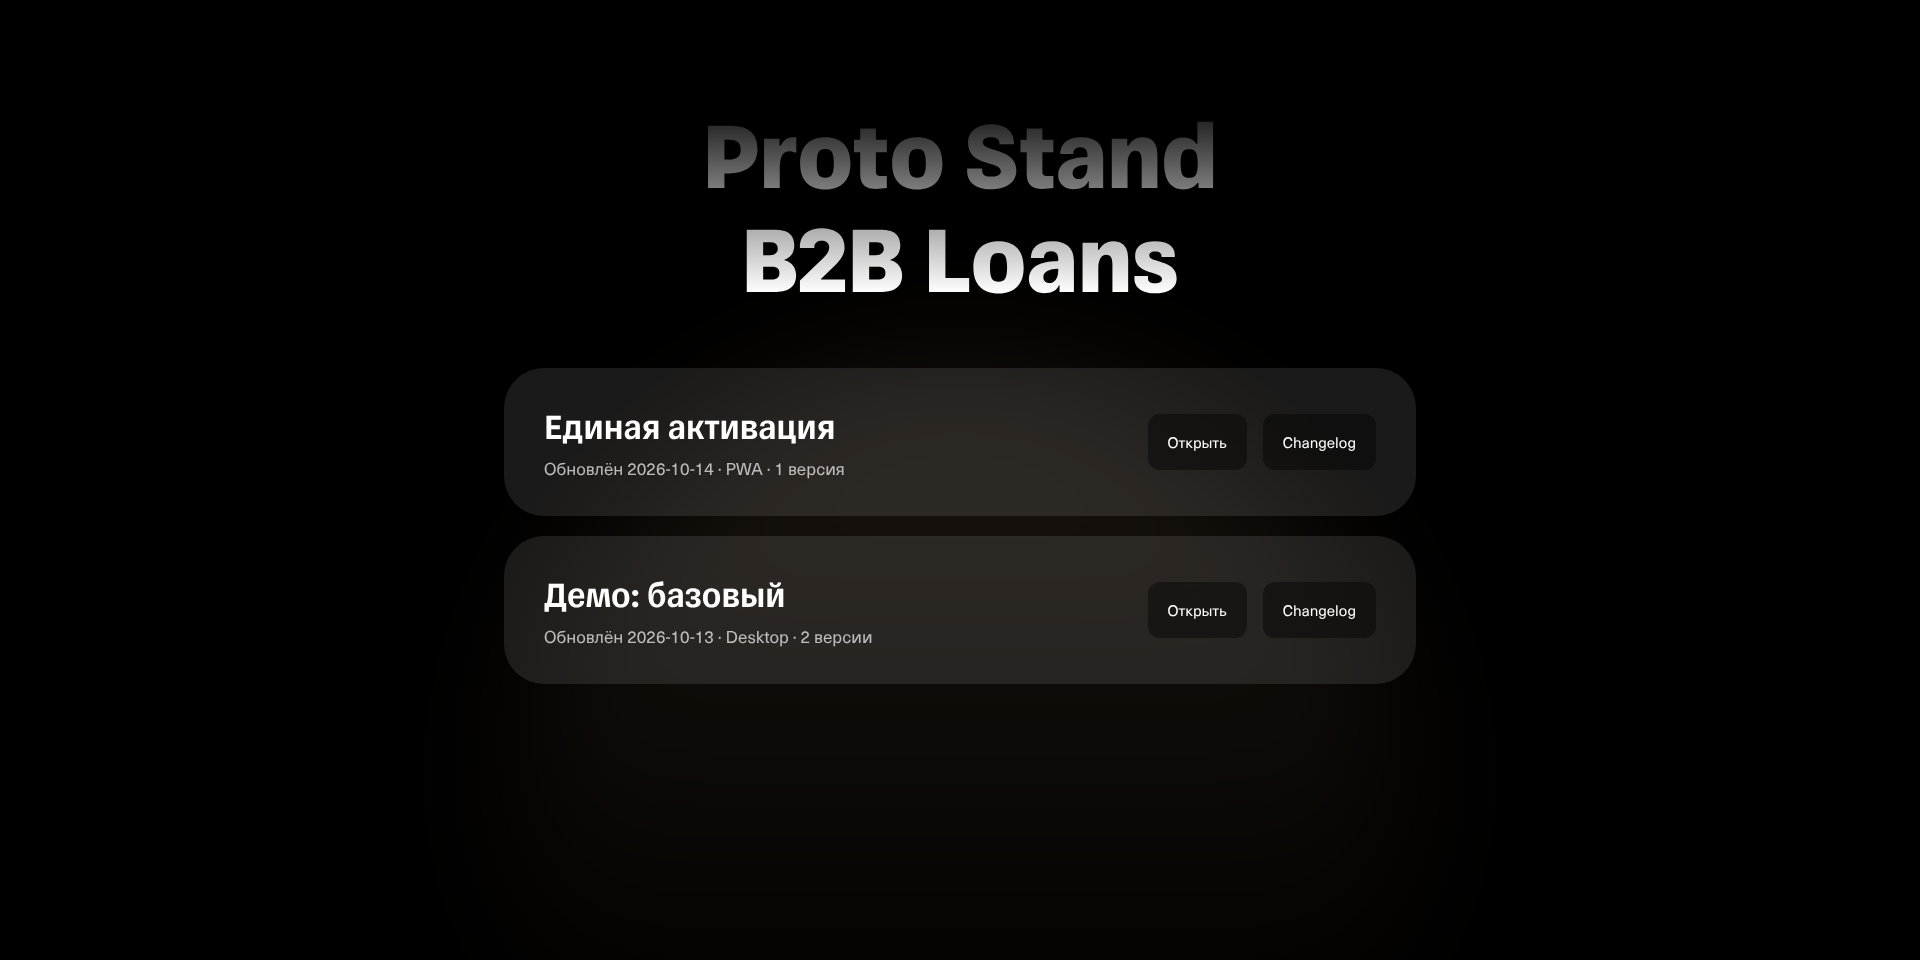
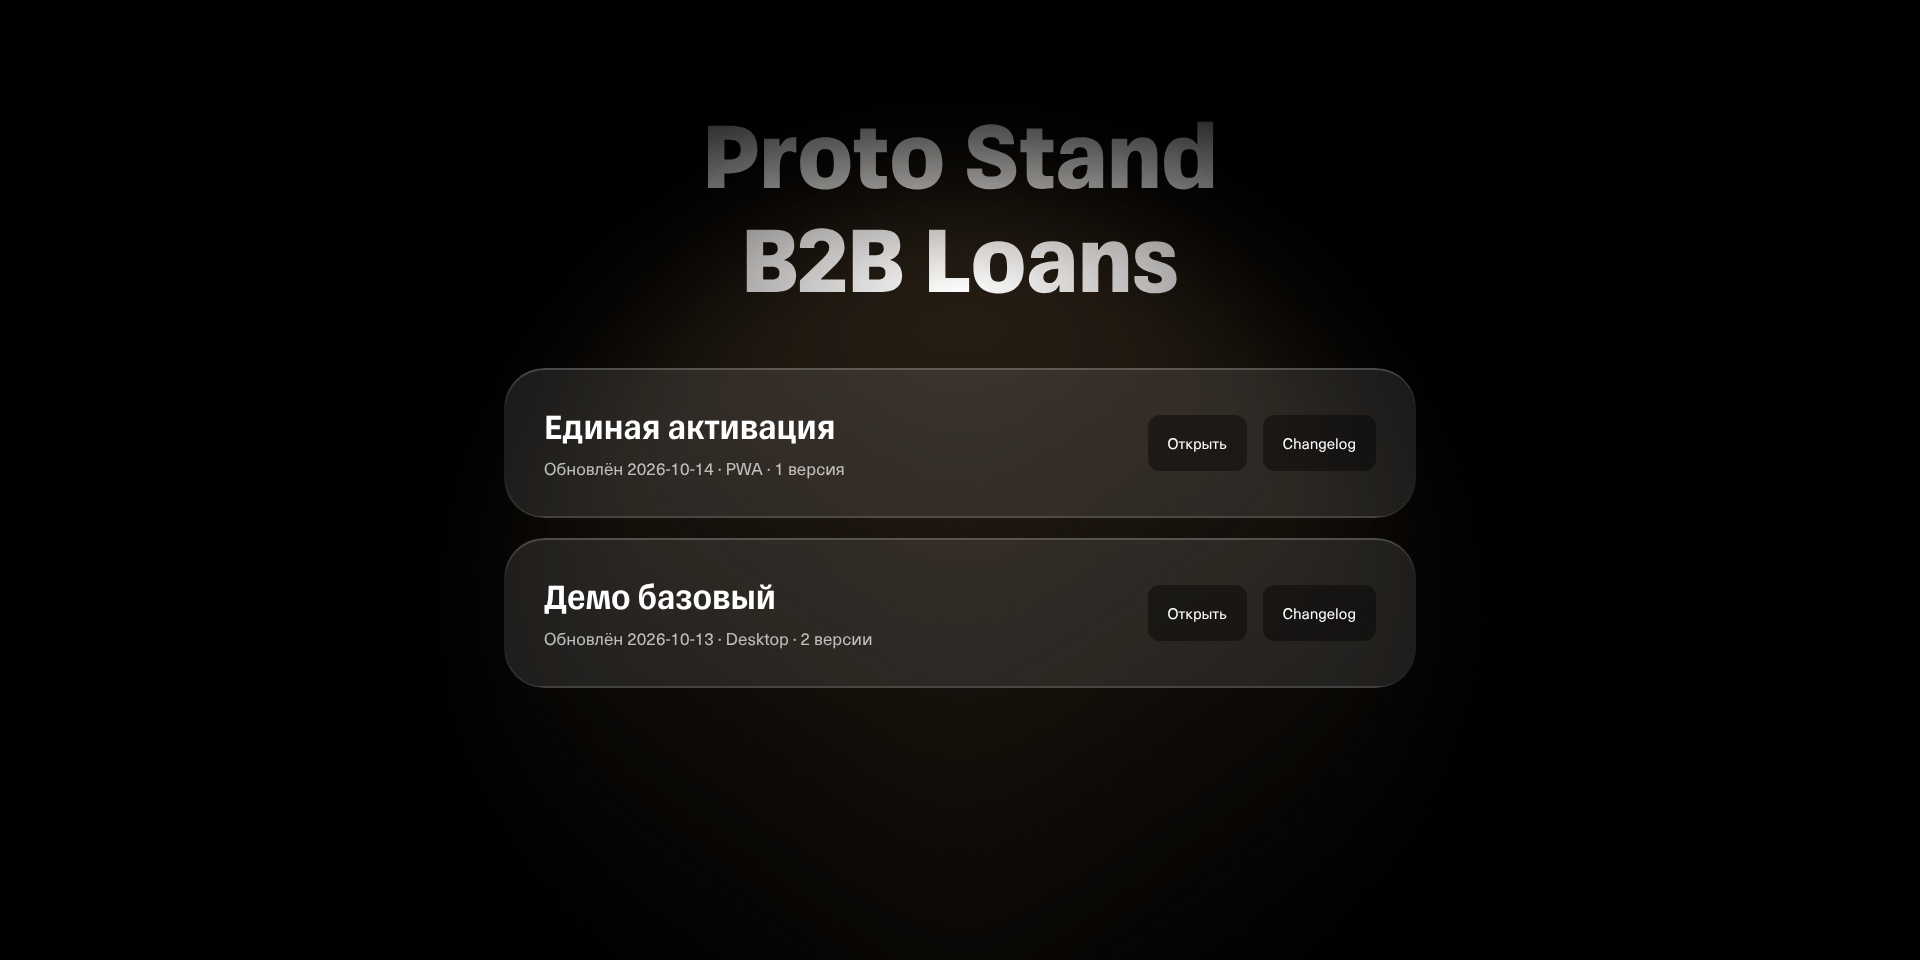
Main: обновлённый макет — свечение, градиент заголовка, ободок карточек (#21)
* Redesign: main from Figma, changelog dialog, viewer with iPhone mockup and scenario/version menu (ADR-0020)

- Hub main follows Figma "main" (22:842): night theme, glow stage, gradient title, TUI card headers with
  glass "Открыть" / "Changelog" buttons. Search, filters, tags, previews, badges and the compare page are gone.
- Changelog opens as a full-screen modal dialog over main (#changelog=<slug>, Esc and Back close it).
- /p/<slug>/ serves the viewer: desktop prototypes fill the window; mobile ones sit in a black iPhone Air
  mockup on wide screens and fill phone screens with the design's system bars hidden.
- Bottom menu over every prototype: TUI tui-segmented (24:991) for «Сценарий» and «Версия» (new
  <ds-segmented> in @proto/ui); installed web apps get it through the shell, collapsible on touch.
- Registry: prototype `platform` (mobile|desktop) and version `scenarios`; proto:new --platform.
- loader.js marks display mode and hides [data-proto-system-bar] where the device has its own bars;
  credit-activation v1 marks its status bar and home indicator and pads with safe areas.

Claude-Session: https://claude.ai/code/session_0186wKxKBV7mCYnZHMdx1yAW

* docs: ADR-0020 registered, STATUS pointer updated

Claude-Session: https://claude.ai/code/session_0186wKxKBV7mCYnZHMdx1yAW

* chore: remove test prototypes demo-r3f and demo-three

Owner request: only «Единая активация» and «Демо базовый» stay on main. The three-gsap and
react-r3f templates remain.
[…]

diff --git a/apps/hub/src/hub.css b/apps/hub/src/hub.css
@@ -6,7 +6,8 @@
   --hub-title-size: clamp(48px, 9vw, 96px);
   --hub-title-line: calc(var(--hub-title-size) * 0.8333);
   --hub-card-radius: 40px;
-  --ds-stage-glow-top: 825px;
+  --hub-card-rim: 1.5px;
+  --ds-stage-glow-top: 657.5px;
 
   min-height: 100dvh;
   margin: 0;
@@ -38,10 +39,12 @@
   line-height: var(--hub-title-line);
   text-align: center;
   color: transparent;
-  background-image: linear-gradient(
-    to top,
-    var(--ds-text-primary-on-dark) 5.978%,
-    var(--ds-color-gradient-text-primary-on-dark-fade-point-2-night-value) 115.76%
+
+  /* Figma: a radial fade centred under the second line (258, 173 of the 516 × 184 text box), radii 629 × 237. */
+  background-image: radial-gradient(
+    121.96% 128.8% at 50% 94.02%,
+    var(--ds-text-primary-on-dark),
+    var(--ds-color-gradient-text-primary-on-dark-fade-point-2-night-value)
   );
   background-clip: text;
 }
@@ -76,13 +79,13 @@
   background: var(--ds-background-neutral-1-on-dark);
 }
 
-/* Figma Glass effect on the card (light from above): a 1 px rim, brightest on the top edge, a little
+/* Figma Glass effect on the card (light from above): a thin rim (--hub-card-rim), brightest on the top edge, a little
    weaker on the bottom edge, none on the sides. Figma's code export drops the effect, so it is drawn here:
    a gradient in the padding box of a pseudo-element, its content box masked out. */
 .hub-card::before {
   position: absolute;
   inset: 0;
-  padding: var(--ds-border-width-thin);
+  padding: var(--hub-card-rim);
   border-radius: inherit;
   background-image: linear-gradient(
     to bottom,
@@ -120,6 +123,9 @@
 
 .hub-card-meta {
   margin: 0;
+
+  /* tui-header SubheaderTextCont: 2 px under the subheader. */
+  padding-block-end: calc(var(--ds-space-1) / 2);
   font-family: var(--ds-typography-ui-l-font-family);
   font-size: var(--ds-typography-ui-l-font-size);
   font-weight: var(--ds-typography-ui-l-font-weight);
@@ -136,7 +142,7 @@
 
 /* Changelog: a full-screen modal over main with the same background. */
 .hub-dialog {
-  --ds-stage-glow-top: 825px;
+  --ds-stage-glow-top: 657.5px;
 
   width: 100%;
   max-width: none;
@@ -217,7 +223,7 @@
 @media (width <= 720px) {
   .hub {
     --hub-card-radius: var(--ds-radius-xl);
-    --ds-stage-glow-top: 640px;
+    --ds-stage-glow-top: 530px;
   }
 
   .hub-header {

diff --git a/packages/ui/src/ui.css b/packages/ui/src/ui.css
@@ -151,7 +151,9 @@
 
 /* Stage: the main page background (Figma main 22:842) — black with a warm blurred glow — shared by the hub,
    the changelog dialog and the mobile prototype viewer. The design's tui/background/accent-opposite (Day)
-   is pure black; in the night theme the same black is accent-on-light. */
+   is pure black; in the night theme the same black is accent-on-light. The glow is the design's own blurred
+   ellipse render (1203 px square, its 25 % layer opacity already in the alpha), stored as pixel-identical
+   lossless WebP. */
 .ds-stage {
   position: relative;
   overflow: clip;
@@ -167,7 +169,7 @@
   left: 50%;
   width: var(--ds-stage-glow-size, 1203px);
   height: var(--ds-stage-glow-size, 1203px);
-  background-image: url('./assets/stage-glow.svg');
+  background-image: url('./assets/stage-glow.webp');
   background-position: center;
   background-size: contain;
   background-repeat: no-repeat;

diff --git a/apps/hub/QA.md b/apps/hub/QA.md
@@ -11,8 +11,13 @@ Values without a TUI or project token (local custom properties, as `.claude/rule
 - Card fill: the design has white 8 %; the closest semantic token is `--ds-background-neutral-1-on-dark`
   (white 10 %).
 - `tui-segmented`: track inset 2 px and item radius 10 px (`packages/ui/src/segmented.css`).
+- Stage glow: the design's blurred ellipse (22:845) is a raster render, stored as pixel-identical lossless
+  WebP (`packages/ui/src/assets/stage-glow.webp`; the layer's 25 % opacity is already in its alpha), centred
+  657.5 px from the top.
+- Title gradient: radial, centred at 50 % / 94.02 % of the text box, radii 121.96 % × 128.8 % (Figma 22:848).
 - Stage black: the design uses `tui/background/accent-opposite` (Day) = black; in the night theme the same
   black is `--ds-background-accent-on-light`.
 - Card rim: the cards carry Figma's Glass effect, which the Figma code export drops. `.hub-card::before` draws
-  it as a 1 px rim: `--ds-background-neutral-3-on-dark` on the top edge, `--ds-background-neutral-2-on-dark` on
+  it as a 1.5 px rim (`--hub-card-rim`; the owner asked for it a little thicker than 1 px, as it looks in the
+  design; between the `--ds-border-width-thin` and `-focus` tokens): `--ds-background-neutral-3-on-dark` on the top edge, `--ds-background-neutral-2-on-dark` on
   the bottom, none on the sides (measured on the 22:850 render: +58 / +42 over the fill).
